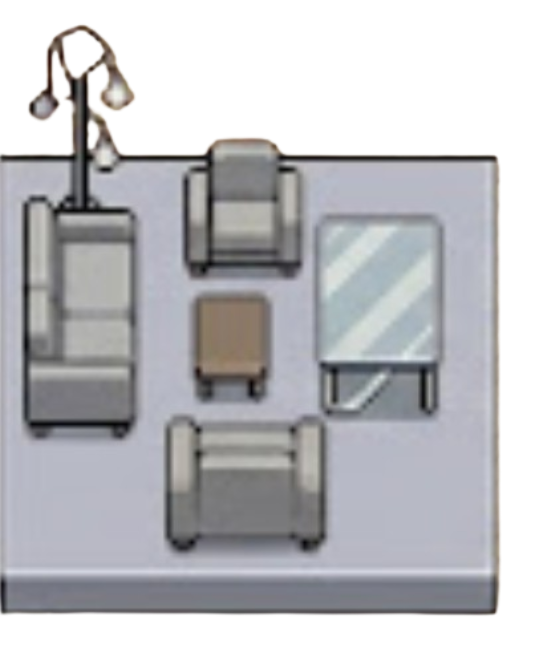
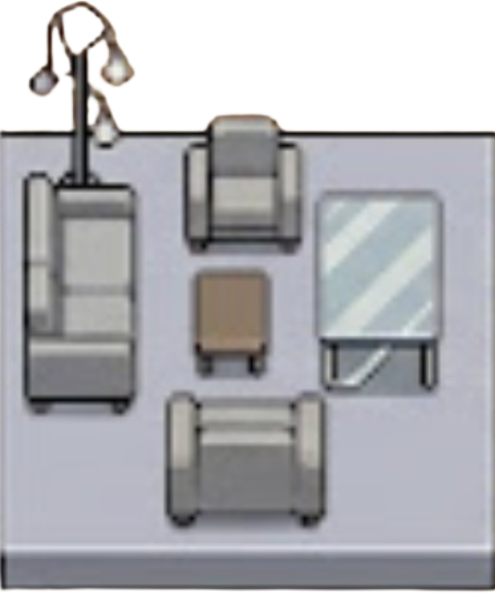
feat(loja): adiciona objetos da loja de moveis e configura colisoes
Insere sofa, estante, mesas e bancada na lista ObjetosInterior e ajusta a logica de hitboxes para corpos estaticos (#133)

diff --git a/public/src/cenas/cena-loja.js b/public/src/cenas/cena-loja.js
@@ -145,6 +145,10 @@ export default class LojaScene extends Phaser.Scene {
         this._configurarPlayerNpcQuiz();
         this._criarPortas();
 
+        if (this.player) {
+            this.player.setDepth(150);
+        }
+
         // Faz a câmera seguir o jogador
         this.cameras.main.startFollow(this.player);
 
@@ -348,28 +352,46 @@ export default class LojaScene extends Phaser.Scene {
     }
 
     _criarMobiliario() {
-    // Busca a lista de objetos da loja atual (usando o this.nomeDaLoja que você já tem)
-    const listaObjetos = ObjetosInterior[this.nomeDaLoja];
-
-    // Se não houver configuração para esta loja ainda, apenas sai da função
-    if (!listaObjetos) return;
-
-    // Passa por cada objeto da lista e adiciona na cena
-    listaObjetos.forEach(config => {
-        // Adiciona a imagem no grupo estático (já vem com física imóvel)
-        let movel = this.objetosFisicos.create(config.x, config.y, config.imagem);
+        console.log("-> 1. Iniciando montagem dos móveis para a loja:", this.nomeLoja);
         
-        // Aplica a escala (se existir na config, senão usa 1)
-        if (config.escala) movel.setScale(config.escala);
-
-        // Ajuste da caixa de colisão (hitbox) para o efeito 3D top-down
-        if (config.hitWidth && config.hitHeight) {
-            movel.body.setSize(config.hitWidth, config.hitHeight);
-            
-            if (config.offsetX !== undefined && config.offsetY !== undefined) {
-                movel.body.setOffset(config.offsetX, config.offsetY);
-            }
+        const listaObjetos = ObjetosInterior[this.nomeLoja];
+        
+        if (!listaObjetos) {
+            console.log("-> ❌ Nenhuma lista de móveis encontrada para essa loja!");
+            return;
         }
-    });
-}
+
+        console.log("-> 2. Encontrei a lista! Quantidade de móveis para criar:", listaObjetos.length);
+
+        listaObjetos.forEach(config => {
+            console.log(`-> 3. Desenhando: ${config.imagem} em X: ${config.x}, Y: ${config.y}`);
+            
+            let movel = this.objetosFisicos.create(config.x, config.y, config.imagem);
+            
+            // 🚨 FORÇA o móvel a renderizar por cima de TUDO (z-index bem alto)
+            movel.setDepth(100); 
+
+            if (config.escala) {
+                movel.setScale(config.escala);
+            }
+
+            // 🚨 No Phaser, quando mudamos o tamanho de um objeto estático, 
+            // precisamos pedir pra física recalcular o tamanho dele:
+            movel.refreshBody();
+
+            if (config.hitWidth && config.hitHeight) {
+                // Atualiza o tamanho da caixa
+                movel.body.setSize(config.hitWidth, config.hitHeight);
+
+                // Força as variáveis de offset (se não existirem, valem 0)
+                let recuoX = config.offsetX !== undefined ? config.offsetX : 0;
+                let recuoY = config.offsetY !== undefined ? config.offsetY : 0;
+
+                // 🚨 O TRUQUE MÁGICO PARA OBJETOS ESTÁTICOS:
+                // Calcula a posição exata da caixa azul forçando as coordenadas top-left
+                movel.body.x = (movel.x - (config.hitWidth / 2)) + recuoX;
+                movel.body.y = (movel.y - (config.hitHeight / 2)) + recuoY;
+            }
+        });
+    }
 }

diff --git a/public/src/utilitarios/configuracao-interior.js b/public/src/utilitarios/configuracao-interior.js
@@ -1,15 +1,10 @@
 
 export const ObjetosInterior = {
     'Cafe': [
-        { 
-            imagem: 'mesa-cafe', // Nome da textura carregada no preload
-            x: 350, 
-            y: 400, 
-            escala: 1,
-            // (Opcional) Ajuste fino da caixa de colisão para dar efeito 3D
-            hitWidth: 60, hitHeight: 30, offsetX: 0, offsetY: 20 
-        },
-        { imagem: 'planta-vaso', x: 100, y: 150, escala: 0.8 }
+        { imagem: 'lancheoneteBancada', x: 400, y: 300, escala: 0.5 },
+        { imagem: 'lancheonteMesa', x: 800, y: 500, escala: 0.5 },
+        { imagem: 'lancheonetePosters', x: 1200, y: 300, escala: 0.5 },
+        { imagem: 'lancheonetePrateleiras', x: 1600, y: 500, escala: 0.5 }
     ],
     'Games': [
         { imagem: 'fliperama-azul', x: 200, y: 150, escala: 1.2 },
@@ -17,6 +12,26 @@ export const ObjetosInterior = {
     ],
     'Autoescola': [
         // Adicione os objetos da autoescola aqui usando o "clique mágico" para o X e Y
+    ],
+    
+    'Movel': [
+        // A bancada de atendimento (geralmente fica perto do NPC)
+        { imagem: 'moveisBancada', x: 820, y: 400, escala: 0.4 },
+        
+        // Um sofá para os clientes aguardarem
+        { imagem: 'moveisSofas', x: 200, y: 700, escala: 0.6,  hitWidth: 300, hitHeight: 420, offsetX: -40, offsetY: 100 },
+        // Uma mesa de exibição
+        { imagem: 'moveisMesa1', x: 1400, y: 800, escala: 0.5 },
+
+        { imagem: 'moveisMesa2', x: 816, y: 800, escala: 0.6 },
+
+        { imagem: 'moveisCadeiras', x: 820, y: 800, escala: 0.3 },
+
+        {imagem: 'moveisPoltrona', x: 1550, y: 450, escala: 0.5 }, 
+
+        {imagem: 'moveisImpressora', x: 1400, y: 350, escala: 0.5 },
+
+        {imagem: 'moveisEstanteLuminárias', x: 1175, y: 350, escala: 0.2 }
+
     ]
-    // ... adicione as outras lojas conforme for montando
 };

diff --git a/public/src/cenas/cena-cidade.js b/public/src/cenas/cena-cidade.js
@@ -119,8 +119,8 @@ export class GameScene extends Phaser.Scene {
                 lojaFisicaOriginX: 0.62,
                 lojaFisicaOriginY: 0.6,
 
-                npcX: 650,
-                npcY: 270,
+                npcX: 820,
+                npcY: 350,
 
                 portaX: 240,
                 portaY: 345,
@@ -302,6 +302,9 @@ export class GameScene extends Phaser.Scene {
             this.scene.pause();
             this.scene.launch('pauseScene');
         });
+
+        console.log('Lembrar de retirar');
+        this.scene.start('cafeScene');
 
     }
 

diff --git a/public/src/cenas/cena-menu.js b/public/src/cenas/cena-menu.js
@@ -143,6 +143,7 @@ export class menuScene extends Phaser.Scene {
             repeat: -1,
             ease: 'Sine.easeInOut'
         });
+        
 
     }
 
